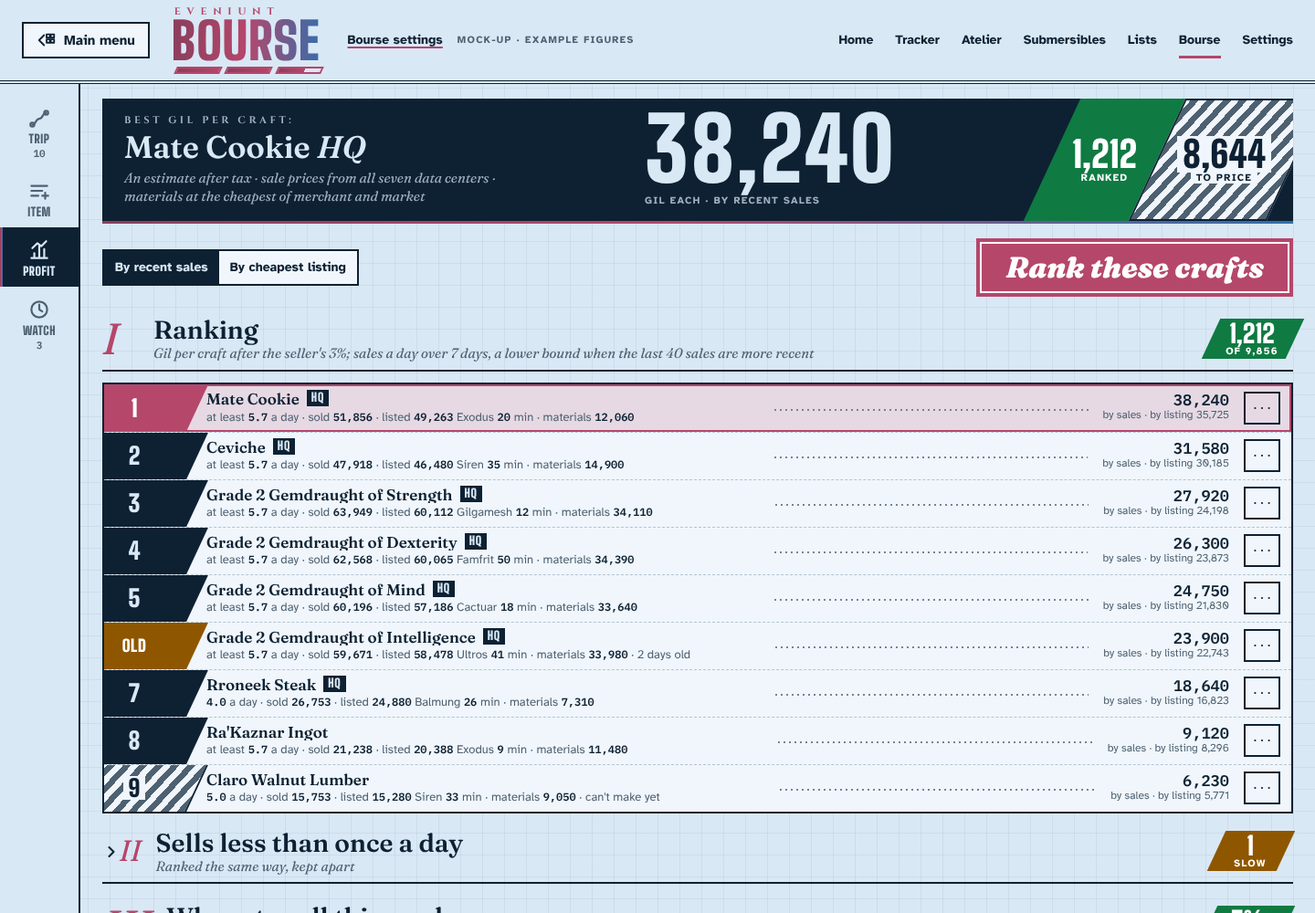
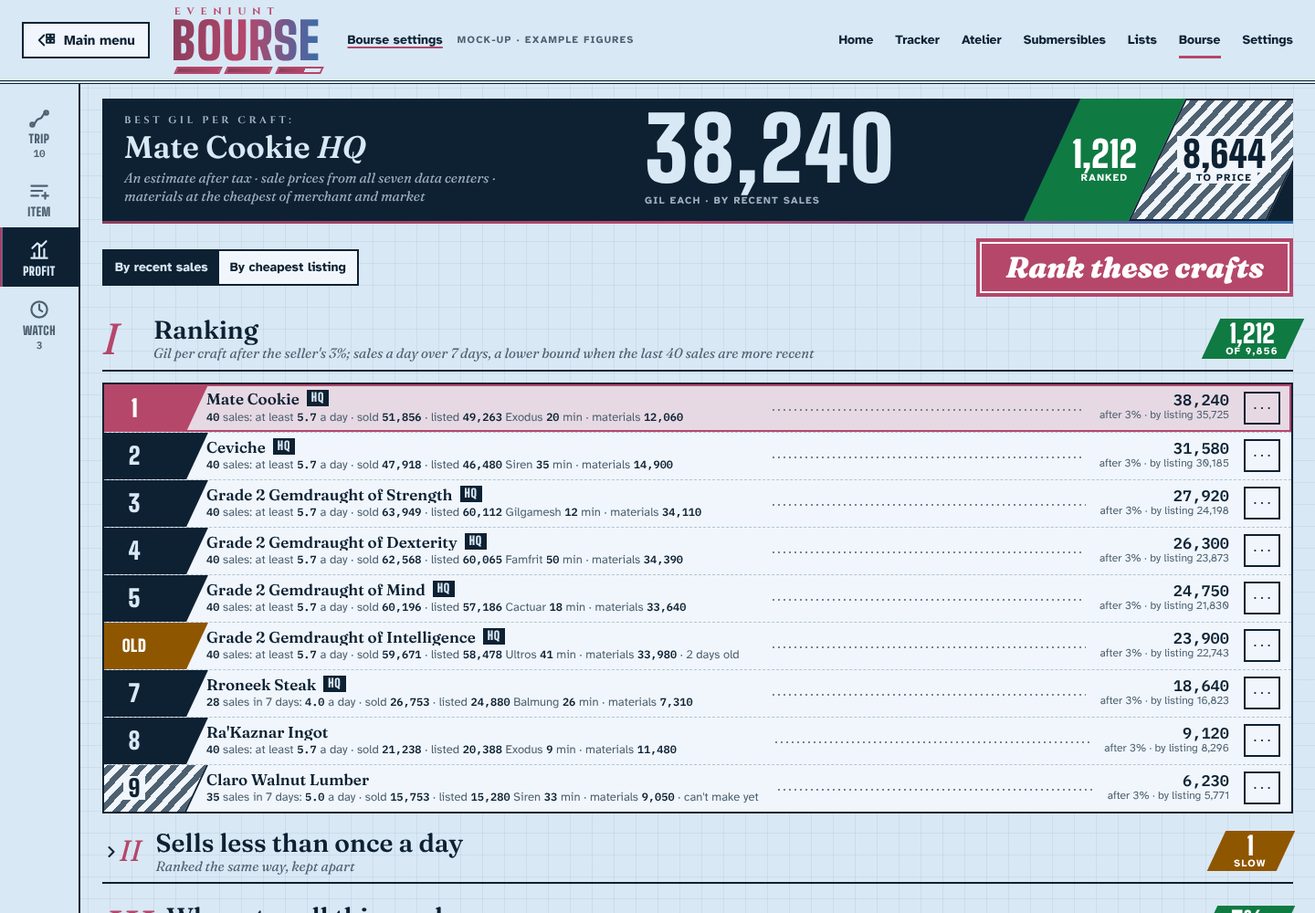
Bourse look: Profit shows its sample and the seller's rate beside the figure (round five)
Claude-Session: https://claude.ai/code/session_01NFtAKAPm6pVgTgxxHMqB7q

diff --git a/docs/bourse/mock/profit.html b/docs/bourse/mock/profit.html
@@ -13,7 +13,7 @@
 <body class="bm bm-book ol-page">
 <script src="../../../tracker/command-center/site/look.js"></script>
 <header class="ol-hdr" data-ol-hdr><div class="ol-hdr-in"><a class="ol-menu" href="#"><svg viewBox="0 0 24 24" aria-hidden="true"><path d="M9 6 3 12l6 6"/><rect x="12" y="5" width="4" height="4"/><rect x="17" y="5" width="4" height="4"/><rect x="12" y="11" width="4" height="4"/><rect x="17" y="11" width="4" height="4"/></svg><span>Main menu</span></a><a class="ol-mark" href="trip.html" aria-label="Eveniunt Bourse"><span class="ol-mk-top">Eveniunt</span><span class="ol-mk-word">Bourse</span><span class="ol-mk-gauge" aria-hidden="true"><i></i><i></i><i></i></span></a><div class="ol-tools"><a class="bm-tool" href="settings.html">Bourse settings</a><span class="ol-lbl bm-mock">Mock-up · example figures</span></div><nav class="ol-nav" aria-label="Command Center"><a href="#">Home</a><a href="#">Tracker</a><a href="#">Atelier</a><a href="#">Submersibles</a><a href="#">Lists</a><a href="#" aria-current="page">Bourse</a><a href="#">Settings</a></nav></div></header>
-<div class="bm-layout"><nav class="bm-rail" aria-label="Bourse views"><a href="trip.html"><svg class="bm-ic" viewBox="0 0 24 24" aria-hidden="true"><path d="M5 19c4 0 3-6 7-6s3-6 7-6"/><circle cx="5" cy="19" r="2"/><circle cx="19" cy="7" r="2"/></svg><span>Trip</span><small>10</small></a><a href="item.html"><svg class="bm-ic" viewBox="0 0 24 24" aria-hidden="true"><path d="M4 7h16M4 12h11M4 17h7"/><path d="M18 14v6M15 17h6"/></svg><span>Item</span></a><a href="profit.html" aria-current="page"><svg class="bm-ic" viewBox="0 0 24 24" aria-hidden="true"><path d="M4 20h16M7 20v-5M12 20V8M17 20v-9"/><path d="m5 10 5-5 4 3 5-5"/></svg><span>Profit</span></a><a href="watch.html"><svg class="bm-ic" viewBox="0 0 24 24" aria-hidden="true"><circle cx="12" cy="12" r="8"/><path d="M12 7v5l3 2"/></svg><span>Watch</span><small>3</small></a></nav><main class="bm-main"><div class="ol-slab"><div class="ol-sl-id"><span class="ol-kick">Best gil per craft:</span><h1>Mate Cookie <span style="font-style:italic">HQ</span></h1><span class="ol-sl-sub">An estimate after tax · sale prices from all seven data centers · materials at the cheapest of merchant and market</span></div><div class="bm-huge"><b>38,240</b><small>gil each · by recent sales</small></div><div class="ol-sl-ans ol-blocks"><span class="ol-sb ol-r-back"><b>1,212</b><i>Ranked</i></span><span class="ol-sb ol-r-locked ol-hatch"><b>8,644</b><i>To price</i></span></div></div><div class="bm-bar"><div class="ol-seg" role="group" aria-label="Ranked by"><button type="button" aria-pressed="true">By recent sales</button><button type="button" aria-pressed="false">By cheapest listing</button></div><button class="ol-seal bm-desk" type="button">Rank these crafts</button></div><section class="ol-chap-wrap"><div class="ol-chap"><span class="ol-num">I</span><div><h2>Ranking</h2><p class="ol-sub">Gil per craft after the seller's 3%; sales a day over 7 days, a lower bound when the last 40 sales are more recent</p></div><div class="ol-sum"><span class="ol-sb ol-r-back ol-sm bm-desk-sum"><b>1,212</b><i>of 9,856</i></span><span class="ol-seg bm-phone-seg" role="group" aria-label="Ranked by"><button type="button" aria-pressed="true">Sales</button><button type="button" aria-pressed="false">Listing</button></span></div></div><div class="bm-lanes"><div class="bm-lane ol-r-seal bm-solid"><span class="ol-sb ol-r-seal"><b>1</b></span><div class="bm-who"><span class="bm-nm">Mate Cookie<em>HQ</em></span><span class="bm-facts">at least <span class="ol-fig">5.7</span> a day · sold <span class="ol-fig">51,856</span> · listed <span class="ol-fig">49,263</span> Exodus <span class="ol-fig">20</span> min · materials <span class="ol-fig">12,060</span></span></div><div class="bm-mid"><span class="bm-gbar bm-r-gil" aria-hidden="true"><i style="width:100%"></i></span></div><span class="bm-ans">38,240<small>by sales · by listing 35,725</small></span><div class="bm-acts"><button class="ol-btn-2 bm-more" type="button" aria-label="More"><svg class="bm-ic" viewBox="0 0 24 24" aria-hidden="true"><path d="M5 12h.01M12 12h.01M19 12h.01"/></svg></button></div></div><div class="bm-lane ol-r-slab"><span class="ol-sb ol-r-slab"><b>2</b></span><div class="bm-who"><span class="bm-nm">Ceviche<em>HQ</em></span><span class="bm-facts">at least <span class="ol-fig">5.7</span> a day · sold <span class="ol-fig">47,918</span> · listed <span class="ol-fig">46,480</span> Siren <span class="ol-fig">35</span> min · materials <span class="ol-fig">14,900</span></span></div><div class="bm-mid"><span class="bm-gbar bm-r-gil" aria-hidden="true"><i style="width:83%"></i></span></div><span class="bm-ans">31,580<small>by sales · by listing 30,185</small></span><div class="bm-acts"><button class="ol-btn-2 bm-more" type="button" aria-label="More"><svg class="bm-ic" viewBox="0 0 24 24" aria-hidden="true"><path d="M5 12h.01M12 12h.01M19 12h.01"/></svg></button></div></div><div class="bm-lane ol-r-slab"><span class="ol-sb ol-r-slab"><b>3</b></span><div class="bm-who"><span class="bm-nm">Grade 2 Gemdraught of Strength<em>HQ</em></span><span class="bm-facts">at least <span class="ol-fig">5.7</span> a day · sold <span class="ol-fig">63,949</span> · listed <span class="ol-fig">60,112</span> Gilgamesh <span class="ol-fig">12</span> min · materials <span class="ol-fig">34,110</span></span></div><div class="bm-mid"><span class="bm-gbar bm-r-gil" aria-hidden="true"><i style="width:73%"></i></span></div><span class="bm-ans">27,920<small>by sales · by listing 24,198</small></span><div class="bm-acts"><button class="ol-btn-2 bm-more" type="button" aria-label="More"><svg class="bm-ic" viewBox="0 0 24 24" aria-hidden="true"><path d="M5 12h.01M12 12h.01M19 12h.01"/></svg></button></div></div><div class="bm-lane ol-r-slab"><span class="ol-sb ol-r-slab"><b>4</b></span><div class="bm-who"><span class="bm-nm">Grade 2 Gemdraught of Dexterity<em>HQ</em></span><span class="bm-facts">at least <span class="ol-fig">5.7</span> a day · sold <span class="ol-fig">62,568</span> · listed <span class="ol-fig">60,065</span> Famfrit <span class="ol-fig">50</span> min · materials <span class="ol-fig">34,390</span></span></div><div class="bm-mid"><span class="bm-gbar bm-r-gil" aria-hidden="true"><i style="width:69%"></i></span></div><span class="bm-ans">26,300<small>by sales · by listing 23,873</small></span><div class="bm-acts"><button class="ol-btn-2 bm-more" type="button" aria-label="More"><svg class="bm-ic" viewBox="0 0 24 24" aria-hidden="true"><path d="M5 12h.01M12 12h.01M19 12h.01"/></svg></button></div></div><div class="bm-lane ol-r-slab"><span class="ol-sb ol-r-slab"><b>5</b></span><div class="bm-who"><span class="bm-nm">Grade 2 Gemdraught of Mind<em>HQ</em></span><span class="bm-facts">at least <span class="ol-fig">5.7</span> a day · sold <span class="ol-fig">60,196</span> · listed <span class="ol-fig">57,186</span> Cactuar <span class="ol-fig">18</span> min · materials <span class="ol-fig">33,640</span></span></div><div class="bm-mid"><span class="bm-gbar bm-r-gil" aria-hidden="true"><i style="width:65%"></i></span></div><span class="bm-ans">24,750<small>by sales · by listing 21,830</small></span><div class="bm-acts"><button class="ol-btn-2 bm-more" type="button" aria-label="More"><svg class="bm-ic" viewBox="0 0 24 24" aria-hidden="true"><path d="M5 12h.01M12 12h.01M19 12h.01"/></svg></button></div></div><div class="bm-lane ol-r-idle"><span class="ol-sb ol-r-idle"><b class="ol-w">Old</b></span><div class="bm-who"><span class="bm-nm">Grade 2 Gemdraught of Intelligence<em>HQ</em></span><span class="bm-facts">at least <span class="ol-fig">5.7</span> a day · sold <span class="ol-fig">59,671</span> · listed <span class="ol-fig">58,478</span> Ultros <span class="ol-fig">41</span> min · materials <span class="ol-fig">33,980</span> · 2 days old</span></div><div class="bm-mid"><span class="bm-gbar bm-r-gil" aria-hidden="true"><i style="width:63%"></i></span></div><span class="bm-ans">23,900<small>by sales · by listing 22,743</small></span><div class="bm-acts"><button class="ol-btn-2 bm-more" type="button" aria-label="More"><svg class="bm-ic" viewBox="0 0 24 24" aria-hidden="true"><path d="M5 12h.01M12 12h.01M19 12h.01"/></svg></button></div></div><div class="bm-lane ol-r-slab"><span class="ol-sb ol-r-slab"><b>7</b></span><div class="bm-who"><span class="bm-nm">Rroneek Steak<em>HQ</em></span><span class="bm-facts"><span class="ol-fig">4.0</span> a day · sold <span class="ol-fig">26,753</span> · listed <span class="ol-fig">24,880</span> Balmung <span class="ol-fig">26</span> min · materials <span class="ol-fig">7,310</span></span></div><div class="bm-mid"><span class="bm-gbar bm-r-gil" aria-hidden="true"><i style="width:49%"></i></span></div><span class="bm-ans">18,640<small>by sales · by listing 16,823</small></span><div class="bm-acts"><button class="ol-btn-2 bm-more" type="button" aria-label="More"><svg class="bm-ic" viewBox="0 0 24 24" aria-hidden="true"><path d="M5 12h.01M12 12h.01M19 12h.01"/></svg></button></div></div><div class="bm-lane ol-r-slab"><span class="ol-sb ol-r-slab"><b>8</b></span><div class="bm-who"><span class="bm-nm">Ra'Kaznar Ingot</span><span class="bm-facts">at least <span class="ol-fig">5.7</span> a day · sold <span class="ol-fig">21,238</span> · listed <span class="ol-fig">20,388</span> Exodus <span class="ol-fig">9</span> min · materials <span class="ol-fig">11,480</span></span></div><div class="bm-mid"><span class="bm-gbar bm-r-gil" aria-hidden="true"><i style="width:24%"></i></span></div><span class="bm-ans">9,120<small>by sales · by listing 8,296</small></span><div class="bm-acts"><button class="ol-btn-2 bm-more" type="button" aria-label="More"><svg class="bm-ic" viewBox="0 0 24 24" aria-hidden="true"><path d="M5 12h.01M12 12h.01M19 12h.01"/></svg></button></div></div><div class="bm-lane ol-r-locked ol-hatch"><span class="ol-sb ol-r-locked ol-hatch"><b>9</b></span><div class="bm-who"><span class="bm-nm">Claro Walnut Lumber</span><span class="bm-facts"><span class="ol-fig">5.0</span> a day · sold <span class="ol-fig">15,753</span> · listed <span class="ol-fig">15,280</span> Siren <span class="ol-fig">33</span> min · materials <span class="ol-fig">9,050</span> · can't make yet</span></div><div class="bm-mid"><span class="bm-gbar bm-r-gil" aria-hidden="true"><i style="width:16%"></i></span></div><span class="bm-ans">6,230<small>by sales · by listing 5,771</small></span><div class="bm-acts"><button class="ol-btn-2 bm-more" type="button" aria-label="More"><svg class="bm-ic" viewBox="0 0 24 24" aria-hidden="true"><path d="M5 12h.01M12 12h.01M19 12h.01"/></svg></button></div></div></div><div class="ol-chap ol-closed"><span class="ol-num"><svg class="ol-chev" viewBox="0 0 24 24" aria-hidden="true"><path d="m6 9 6 6 6-6"/></svg> II</span><div><h2>Sells less than once a day</h2><p class="ol-sub">Ranked the same way, kept apart</p></div><div class="ol-sum"><span class="ol-sb ol-r-idle ol-sm"><b>1</b><i>Slow</i></span></div></div></section><section class="ol-chap-wrap"><div class="ol-chap"><span class="ol-num">III</span><div><h2>Where to sell this week</h2><p class="ol-sub">Seller's tax by city on Gilgamesh, read 3 hours ago; buyers pay their own 5%</p></div><div class="ol-sum"><span class="ol-sb ol-r-back ol-sm"><b>3%</b><i>Lowest</i></span></div></div><div class="bm-lanes"><div class="bm-lane ol-r-back bm-solid bm-thin"><span class="ol-sb ol-r-back"><b>3%</b></span><div class="bm-who"><span class="bm-nm">Ishgard</span><span class="bm-facts">Used for profit</span></div><div class="bm-mid"></div><span class="bm-ans"></span></div><div class="bm-lane ol-r-back bm-thin"><span class="ol-sb ol-r-back"><b>3%</b></span><div class="bm-who"><span class="bm-nm">Old Sharlayan</span><span class="bm-facts">Also reduced this week</span></div><div class="bm-mid"></div><span class="bm-ans"></span></div><div class="bm-lane ol-r-slab bm-thin"><span class="ol-sb ol-r-slab ol-outline"><b>5%</b></span><div class="bm-who"><span class="bm-nm">Kugane</span><span class="bm-facts">Full rate</span></div><div class="bm-mid"></div><span class="bm-ans"></span></div><div class="bm-lane ol-r-slab bm-thin"><span class="ol-sb ol-r-slab ol-outline"><b>5%</b></span><div class="bm-who"><span class="bm-nm">The Crystarium</span><span class="bm-facts">Full rate</span></div><div class="bm-mid"></div><span class="bm-ans"></span></div><div class="bm-lane ol-r-slab bm-thin"><span class="ol-sb ol-r-slab ol-outline"><b>5%</b></span><div class="bm-who"><span class="bm-nm">Tuliyollal</span><span class="bm-facts">Full rate</span></div><div class="bm-mid"></div><span class="bm-ans"></span></div><div class="bm-lane ol-r-slab bm-thin"><span class="ol-sb ol-r-slab ol-outline"><b>5%</b></span><div class="bm-who"><span class="bm-nm">Limsa Lominsa</span><span class="bm-facts">Full rate</span></div><div class="bm-mid"></div><span class="bm-ans"></span></div><div class="bm-lane ol-r-slab bm-thin"><span class="ol-sb ol-r-slab ol-outline"><b>5%</b></span><div class="bm-who"><span class="bm-nm">Gridania</span><span class="bm-facts">Full rate</span></div><div class="bm-mid"></div><span class="bm-ans"></span></div><div class="bm-lane ol-r-slab bm-thin"><span class="ol-sb ol-r-slab ol-outline"><b>5%</b></span><div class="bm-who"><span class="bm-nm">Ul'dah</span><span class="bm-facts">Full rate</span></div><div class="bm-mid"></div><span class="bm-ans"></span></div></div></section></main></div><div class="bm-act"><button class="ol-seal" type="button">Rank these crafts</button></div>
+<div class="bm-layout"><nav class="bm-rail" aria-label="Bourse views"><a href="trip.html"><svg class="bm-ic" viewBox="0 0 24 24" aria-hidden="true"><path d="M5 19c4 0 3-6 7-6s3-6 7-6"/><circle cx="5" cy="19" r="2"/><circle cx="19" cy="7" r="2"/></svg><span>Trip</span><small>10</small></a><a href="item.html"><svg class="bm-ic" viewBox="0 0 24 24" aria-hidden="true"><path d="M4 7h16M4 12h11M4 17h7"/><path d="M18 14v6M15 17h6"/></svg><span>Item</span></a><a href="profit.html" aria-current="page"><svg class="bm-ic" viewBox="0 0 24 24" aria-hidden="true"><path d="M4 20h16M7 20v-5M12 20V8M17 20v-9"/><path d="m5 10 5-5 4 3 5-5"/></svg><span>Profit</span></a><a href="watch.html"><svg class="bm-ic" viewBox="0 0 24 24" aria-hidden="true"><circle cx="12" cy="12" r="8"/><path d="M12 7v5l3 2"/></svg><span>Watch</span><small>3</small></a></nav><main class="bm-main"><div class="ol-slab"><div class="ol-sl-id"><span class="ol-kick">Best gil per craft:</span><h1>Mate Cookie <span style="font-style:italic">HQ</span></h1><span class="ol-sl-sub">An estimate after tax · sale prices from all seven data centers · materials at the cheapest of merchant and market</span></div><div class="bm-huge"><b>38,240</b><small>gil each · by recent sales</small></div><div class="ol-sl-ans ol-blocks"><span class="ol-sb ol-r-back"><b>1,212</b><i>Ranked</i></span><span class="ol-sb ol-r-locked ol-hatch"><b>8,644</b><i>To price</i></span></div></div><div class="bm-bar"><div class="ol-seg" role="group" aria-label="Ranked by"><button type="button" aria-pressed="true">By recent sales</button><button type="button" aria-pressed="false">By cheapest listing</button></div><button class="ol-seal bm-desk" type="button">Rank these crafts</button></div><section class="ol-chap-wrap"><div class="ol-chap"><span class="ol-num">I</span><div><h2>Ranking</h2><p class="ol-sub">Gil per craft after the seller's 3%; sales a day over 7 days, a lower bound when the last 40 sales are more recent</p></div><div class="ol-sum"><span class="ol-sb ol-r-back ol-sm bm-desk-sum"><b>1,212</b><i>of 9,856</i></span><span class="ol-seg bm-phone-seg" role="group" aria-label="Ranked by"><button type="button" aria-pressed="true">Sales</button><button type="button" aria-pressed="false">Listing</button></span></div></div><div class="bm-lanes"><div class="bm-lane ol-r-seal bm-solid"><span class="ol-sb ol-r-seal"><b>1</b></span><div class="bm-who"><span class="bm-nm">Mate Cookie<em>HQ</em></span><span class="bm-facts"><span class="ol-fig">40</span> sales: at least <span class="ol-fig">5.7</span> a day · sold <span class="ol-fig">51,856</span> · listed <span class="ol-fig">49,263</span> Exodus <span class="ol-fig">20</span> min · materials <span class="ol-fig">12,060</span></span></div><div class="bm-mid"><span class="bm-gbar bm-r-gil" aria-hidden="true"><i style="width:100%"></i></span></div><span class="bm-ans">38,240<small>after 3% · by listing 35,725</small></span><div class="bm-acts"><button class="ol-btn-2 bm-more" type="button" aria-label="More"><svg class="bm-ic" viewBox="0 0 24 24" aria-hidden="true"><path d="M5 12h.01M12 12h.01M19 12h.01"/></svg></button></div></div><div class="bm-lane ol-r-slab"><span class="ol-sb ol-r-slab"><b>2</b></span><div class="bm-who"><span class="bm-nm">Ceviche<em>HQ</em></span><span class="bm-facts"><span class="ol-fig">40</span> sales: at least <span class="ol-fig">5.7</span> a day · sold <span class="ol-fig">47,918</span> · listed <span class="ol-fig">46,480</span> Siren <span class="ol-fig">35</span> min · materials <span class="ol-fig">14,900</span></span></div><div class="bm-mid"><span class="bm-gbar bm-r-gil" aria-hidden="true"><i style="width:83%"></i></span></div><span class="bm-ans">31,580<small>after 3% · by listing 30,185</small></span><div class="bm-acts"><button class="ol-btn-2 bm-more" type="button" aria-label="More"><svg class="bm-ic" viewBox="0 0 24 24" aria-hidden="true"><path d="M5 12h.01M12 12h.01M19 12h.01"/></svg></button></div></div><div class="bm-lane ol-r-slab"><span class="ol-sb ol-r-slab"><b>3</b></span><div class="bm-who"><span class="bm-nm">Grade 2 Gemdraught of Strength<em>HQ</em></span><span class="bm-facts"><span class="ol-fig">40</span> sales: at least <span class="ol-fig">5.7</span> a day · sold <span class="ol-fig">63,949</span> · listed <span class="ol-fig">60,112</span> Gilgamesh <span class="ol-fig">12</span> min · materials <span class="ol-fig">34,110</span></span></div><div class="bm-mid"><span class="bm-gbar bm-r-gil" aria-hidden="true"><i style="width:73%"></i></span></div><span class="bm-ans">27,920<small>after 3% · by listing 24,198</small></span><div class="bm-acts"><button class="ol-btn-2 bm-more" type="button" aria-label="More"><svg class="bm-ic" viewBox="0 0 24 24" aria-hidden="true"><path d="M5 12h.01M12 12h.01M19 12h.01"/></svg></button></div></div><div class="bm-lane ol-r-slab"><span class="ol-sb ol-r-slab"><b>4</b></span><div class="bm-who"><span class="bm-nm">Grade 2 Gemdraught of Dexterity<em>HQ</em></span><span class="bm-facts"><span class="ol-fig">40</span> sales: at least <span class="ol-fig">5.7</span> a day · sold <span class="ol-fig">62,568</span> · listed <span class="ol-fig">60,065</span> Famfrit <span class="ol-fig">50</span> min · materials <span class="ol-fig">34,390</span></span></div><div class="bm-mid"><span class="bm-gbar bm-r-gil" aria-hidden="true"><i style="width:69%"></i></span></div><span class="bm-ans">26,300<small>after 3% · by listing 23,873</small></span><div class="bm-acts"><button class="ol-btn-2 bm-more" type="button" aria-label="More"><svg class="bm-ic" viewBox="0 0 24 24" aria-hidden="true"><path d="M5 12h.01M12 12h.01M19 12h.01"/></svg></button></div></div><div class="bm-lane ol-r-slab"><span class="ol-sb ol-r-slab"><b>5</b></span><div class="bm-who"><span class="bm-nm">Grade 2 Gemdraught of Mind<em>HQ</em></span><span class="bm-facts"><span class="ol-fig">40</span> sales: at least <span class="ol-fig">5.7</span> a day · sold <span class="ol-fig">60,196</span> · listed <span class="ol-fig">57,186</span> Cactuar <span class="ol-fig">18</span> min · materials <span class="ol-fig">33,640</span></span></div><div class="bm-mid"><span class="bm-gbar bm-r-gil" aria-hidden="true"><i style="width:65%"></i></span></div><span class="bm-ans">24,750<small>after 3% · by listing 21,830</small></span><div class="bm-acts"><button class="ol-btn-2 bm-more" type="button" aria-label="More"><svg class="bm-ic" viewBox="0 0 24 24" aria-hidden="true"><path d="M5 12h.01M12 12h.01M19 12h.01"/></svg></button></div></div><div class="bm-lane ol-r-idle"><span class="ol-sb ol-r-idle"><b class="ol-w">Old</b></span><div class="bm-who"><span class="bm-nm">Grade 2 Gemdraught of Intelligence<em>HQ</em></span><span class="bm-facts"><span class="ol-fig">40</span> sales: at least <span class="ol-fig">5.7</span> a day · sold <span class="ol-fig">59,671</span> · listed <span class="ol-fig">58,478</span> Ultros <span class="ol-fig">41</span> min · materials <span class="ol-fig">33,980</span> · 2 days old</span></div><div class="bm-mid"><span class="bm-gbar bm-r-gil" aria-hidden="true"><i style="width:63%"></i></span></div><span class="bm-ans">23,900<small>after 3% · by listing 22,743</small></span><div class="bm-acts"><button class="ol-btn-2 bm-more" type="button" aria-label="More"><svg class="bm-ic" viewBox="0 0 24 24" aria-hidden="true"><path d="M5 12h.01M12 12h.01M19 12h.01"/></svg></button></div></div><div class="bm-lane ol-r-slab"><span class="ol-sb ol-r-slab"><b>7</b></span><div class="bm-who"><span class="bm-nm">Rroneek Steak<em>HQ</em></span><span class="bm-facts"><span class="ol-fig">28</span> sales in 7 days: <span class="ol-fig">4.0</span> a day · sold <span class="ol-fig">26,753</span> · listed <span class="ol-fig">24,880</span> Balmung <span class="ol-fig">26</span> min · materials <span class="ol-fig">7,310</span></span></div><div class="bm-mid"><span class="bm-gbar bm-r-gil" aria-hidden="true"><i style="width:49%"></i></span></div><span class="bm-ans">18,640<small>after 3% · by listing 16,823</small></span><div class="bm-acts"><button class="ol-btn-2 bm-more" type="button" aria-label="More"><svg class="bm-ic" viewBox="0 0 24 24" aria-hidden="true"><path d="M5 12h.01M12 12h.01M19 12h.01"/></svg></button></div></div><div class="bm-lane ol-r-slab"><span class="ol-sb ol-r-slab"><b>8</b></span><div class="bm-who"><span class="bm-nm">Ra'Kaznar Ingot</span><span class="bm-facts"><span class="ol-fig">40</span> sales: at least <span class="ol-fig">5.7</span> a day · sold <span class="ol-fig">21,238</span> · listed <span class="ol-fig">20,388</span> Exodus <span class="ol-fig">9</span> min · materials <span class="ol-fig">11,480</span></span></div><div class="bm-mid"><span class="bm-gbar bm-r-gil" aria-hidden="true"><i style="width:24%"></i></span></div><span class="bm-ans">9,120<small>after 3% · by listing 8,296</small></span><div class="bm-acts"><button class="ol-btn-2 bm-more" type="button" aria-label="More"><svg class="bm-ic" viewBox="0 0 24 24" aria-hidden="true"><path d="M5 12h.01M12 12h.01M19 12h.01"/></svg></button></div></div><div class="bm-lane ol-r-locked ol-hatch"><span class="ol-sb ol-r-locked ol-hatch"><b>9</b></span><div class="bm-who"><span class="bm-nm">Claro Walnut Lumber</span><span class="bm-facts"><span class="ol-fig">35</span> sales in 7 days: <span class="ol-fig">5.0</span> a day · sold <span class="ol-fig">15,753</span> · listed <span class="ol-fig">15,280</span> Siren <span class="ol-fig">33</span> min · materials <span class="ol-fig">9,050</span> · can't make yet</span></div><div class="bm-mid"><span class="bm-gbar bm-r-gil" aria-hidden="true"><i style="width:16%"></i></span></div><span class="bm-ans">6,230<small>after 3% · by listing 5,771</small></span><div class="bm-acts"><button class="ol-btn-2 bm-more" type="button" aria-label="More"><svg class="bm-ic" viewBox="0 0 24 24" aria-hidden="true"><path d="M5 12h.01M12 12h.01M19 12h.01"/></svg></button></div></div></div><div class="ol-chap ol-closed"><span class="ol-num"><svg class="ol-chev" viewBox="0 0 24 24" aria-hidden="true"><path d="m6 9 6 6 6-6"/></svg> II</span><div><h2>Sells less than once a day</h2><p class="ol-sub">Ranked the same way, kept apart</p></div><div class="ol-sum"><span class="ol-sb ol-r-idle ol-sm"><b>1</b><i>Slow</i></span></div></div></section><section class="ol-chap-wrap"><div class="ol-chap"><span class="ol-num">III</span><div><h2>Where to sell this week</h2><p class="ol-sub">Seller's tax by city on Gilgamesh, read 3 hours ago; buyers pay their own 5%</p></div><div class="ol-sum"><span class="ol-sb ol-r-back ol-sm"><b>3%</b><i>Lowest</i></span></div></div><div class="bm-lanes"><div class="bm-lane ol-r-back bm-solid bm-thin"><span class="ol-sb ol-r-back"><b>3%</b></span><div class="bm-who"><span class="bm-nm">Ishgard</span><span class="bm-facts">Used for profit</span></div><div class="bm-mid"></div><span class="bm-ans"></span></div><div class="bm-lane ol-r-back bm-thin"><span class="ol-sb ol-r-back"><b>3%</b></span><div class="bm-who"><span class="bm-nm">Old Sharlayan</span><span class="bm-facts">Also reduced this week</span></div><div class="bm-mid"></div><span class="bm-ans"></span></div><div class="bm-lane ol-r-slab bm-thin"><span class="ol-sb ol-r-slab ol-outline"><b>5%</b></span><div class="bm-who"><span class="bm-nm">Kugane</span><span class="bm-facts">Full rate</span></div><div class="bm-mid"></div><span class="bm-ans"></span></div><div class="bm-lane ol-r-slab bm-thin"><span class="ol-sb ol-r-slab ol-outline"><b>5%</b></span><div class="bm-who"><span class="bm-nm">The Crystarium</span><span class="bm-facts">Full rate</span></div><div class="bm-mid"></div><span class="bm-ans"></span></div><div class="bm-lane ol-r-slab bm-thin"><span class="ol-sb ol-r-slab ol-outline"><b>5%</b></span><div class="bm-who"><span class="bm-nm">Tuliyollal</span><span class="bm-facts">Full rate</span></div><div class="bm-mid"></div><span class="bm-ans"></span></div><div class="bm-lane ol-r-slab bm-thin"><span class="ol-sb ol-r-slab ol-outline"><b>5%</b></span><div class="bm-who"><span class="bm-nm">Limsa Lominsa</span><span class="bm-facts">Full rate</span></div><div class="bm-mid"></div><span class="bm-ans"></span></div><div class="bm-lane ol-r-slab bm-thin"><span class="ol-sb ol-r-slab ol-outline"><b>5%</b></span><div class="bm-who"><span class="bm-nm">Gridania</span><span class="bm-facts">Full rate</span></div><div class="bm-mid"></div><span class="bm-ans"></span></div><div class="bm-lane ol-r-slab bm-thin"><span class="ol-sb ol-r-slab ol-outline"><b>5%</b></span><div class="bm-who"><span class="bm-nm">Ul'dah</span><span class="bm-facts">Full rate</span></div><div class="bm-mid"></div><span class="bm-ans"></span></div></div></section></main></div><div class="bm-act"><button class="ol-seal" type="button">Rank these crafts</button></div>
 <p class="bm-foot"><b>Mock-up.</b> Prices, ages, sales and tax rates are examples, not market data. Item and world names from the game data (7.57h1). Prices on the real screens come from Universalis, a community site that collects what players' game clients report; this app reads nothing from the game.</p>
 </body>
 </html>

diff --git a/docs/bourse/pictures/notes.md b/docs/bourse/pictures/notes.md
@@ -1,4 +1,4 @@
-# Bourse mock-up pictures: notes (look v3, after the round-four outside reviews, 2026-11-26)
+# Bourse mock-up pictures: notes (look v3, after the round-five outside reviews, 2026-11-26)
 
 Made with `node docs/bourse/tools/make-mock.mjs` then `node docs/bourse/tools/shoot.mjs` (Chromium, deviceScaleFactor 1,
 viewport only). The pages load the built site's own `fonts.css`, `shared.css`, `one-look.css` and `look.js`; the theme is
@@ -68,3 +68,5 @@ alert is pictured over the normal Watch screen. Reading text is at least 12 px.
   - Example: sold 51,856 less 1,556 less 12,060 gives 38,240; listed 49,263 less 1,478 less 12,060 gives 35,725.
 - **Settings:** the home-world source is a line of text under the picker, so it is not cut off on the phone.
 - **States page:** the hourly limit says it counts the Bourse's requests, and that Lists and Submersibles keep their own limit.
+
+**After the round-five outside review (2026-11-26).** Each Profit row now carries its sample beside the rate ("40 sales: at least 5.7 a day", or "28 sales in 7 days: 4.0 a day"), and the figure's own line says "after 3%" beside the second profit figure, on both widths. No other screen changed.
